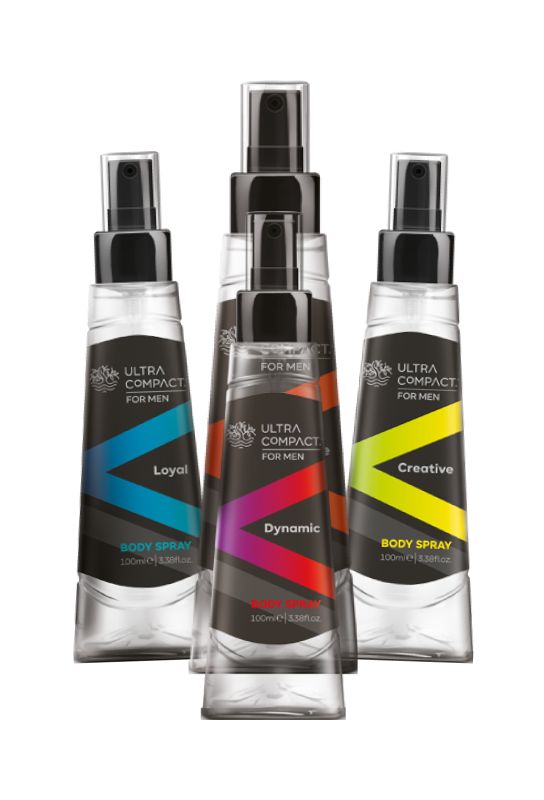
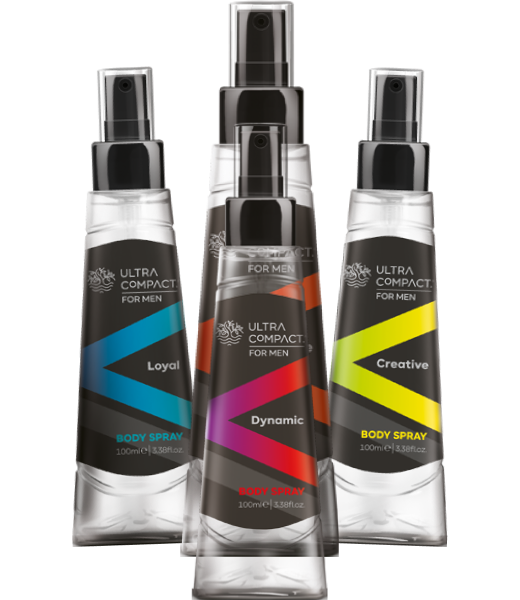
somes changes

diff --git a/pages/index.js b/pages/index.js
@@ -57,8 +57,8 @@ export default function Home({ newArray }) {
                 className="category__items__img"
                   src={item.preview}
                   alt={item.name}
-                  width={200}
-                  height={200}
+                  width={100}
+                  height={150}
                 />
               </li>
             </Link>

diff --git a/styles/04-components/_homepage.scss b/styles/04-components/_homepage.scss
@@ -11,7 +11,7 @@
         max-width: 100px;
     }
     &__img {
-        width: 40%;
+        width: 35%;
         object-fit: cover;
     }
 }
